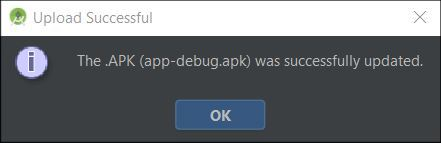
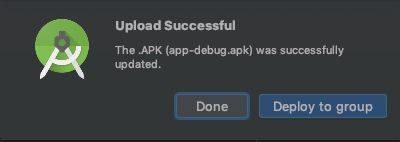
Group deployment of an application from Esper Plugin (#117)
* Group deployment of an application from Esper Plugin

* Changes in Setup of Esper Plugin

* Fix for review comments.

diff --git a/docs/home/esperplugin.md b/docs/home/esperplugin.md
@@ -37,7 +37,7 @@ If this is the first time you are installing a 3rd-party plugin, Android Studio 
 Click on Accept to proceed. If you have installed third-party plugins before, you will not see this prompt, and you can proceed to the next step.
 Once Android Studio restarts, check the Event Log in the lower right corner to verify the Plugin successfully installed.
 
-## Setup and Use
+## Setup
 The setup for the Esper Plugin is Project specific for the currently open Project. If you wish to use the Esper Plugin for other Projects, be sure to perform the setup for each. 
 With your desired Project open, go to File → Settings (or Android Studio → Preferences for Mac). Click on the drop down for Other Settings, and the click on Esper from the resulting list. In the Esper window, type in the relevant credentials for your Endpoint Name, Username, and Password. Hit Apply and then OK.
 
@@ -45,6 +45,9 @@ With your desired Project open, go to File → Settings (or Android Studio → P
 
 
 The Plugin is now configured to your Endpoint for this Project.
+<br/>
+<br/>
+## Uploading APK to Esper
 
 Now once you are ready to upload an .apk file to your Endpoint, simply go to Build → Upload APK to Esper:
 
@@ -67,6 +70,40 @@ If there's any error, you'll see an error as shown below:
 Note that trying to upload the same version of the .apk you already have on your Endpoint will produce an error. You currently cannot overwrite it using the Plugin, you will have to delete it using the Esper Console or from the CLI.
 
 <br/>
+
+## Deploying application to a group of devices
+Esper plugin facilitates developers to deploy an uploaded application to a group.
+
+### After uploading APK
+After [uploading the APK to Esper](#uploading-apk-to-esper), developer can opt to deploy to a group of devices.
+
+<img src="./assets/plugin/deployapptogroup/deploy_after_upload.jpg">
+
+### Uploaded applications
+Developers can choose an application and a group.\
+\
+<img src="./assets/plugin/deployapptogroup/deploy_app_to_group_menu_item.jpg">\
+\
+<img src="./assets/plugin/deployapptogroup/choose_app_and_group.jpg">
+
+Deployment status will be updated until the deployment is completed.
+
+<img src="./assets/plugin/deployapptogroup/deploy_status_initial.jpg">
+
+<img src="./assets/plugin/deployapptogroup/deploy_status_final.jpg">
+
+Deployment status can be monitored from the background as well (Click on Deploy in background button). Intermediate status will be updated at background progress bar.
+
+<img src="./assets/plugin/deployapptogroup/deploy_status_background.jpg">
+
+Final status will be updated with a notification.
+
+<img src="./assets/plugin/deployapptogroup/deploy_status_notification.jpg">
+
+Final status can also be seen in event log as well.
+
+<img src="./assets/plugin/deployapptogroup/deploy_status_event_log.jpg">
+
 <br/>
 
 ## Esper Android Virtual Device
@@ -148,6 +185,7 @@ If you'd rather use ADB to get the serial number, you can also use adb shell get
 
 Please reboot the Esper AVD (EVD) after that (or hit the "back button" once). Now your Espe AVD (EVD) will provision and start talking to the Esper endpoint automatically.
 
+<br/>
 
 ## Uninstalling
 
